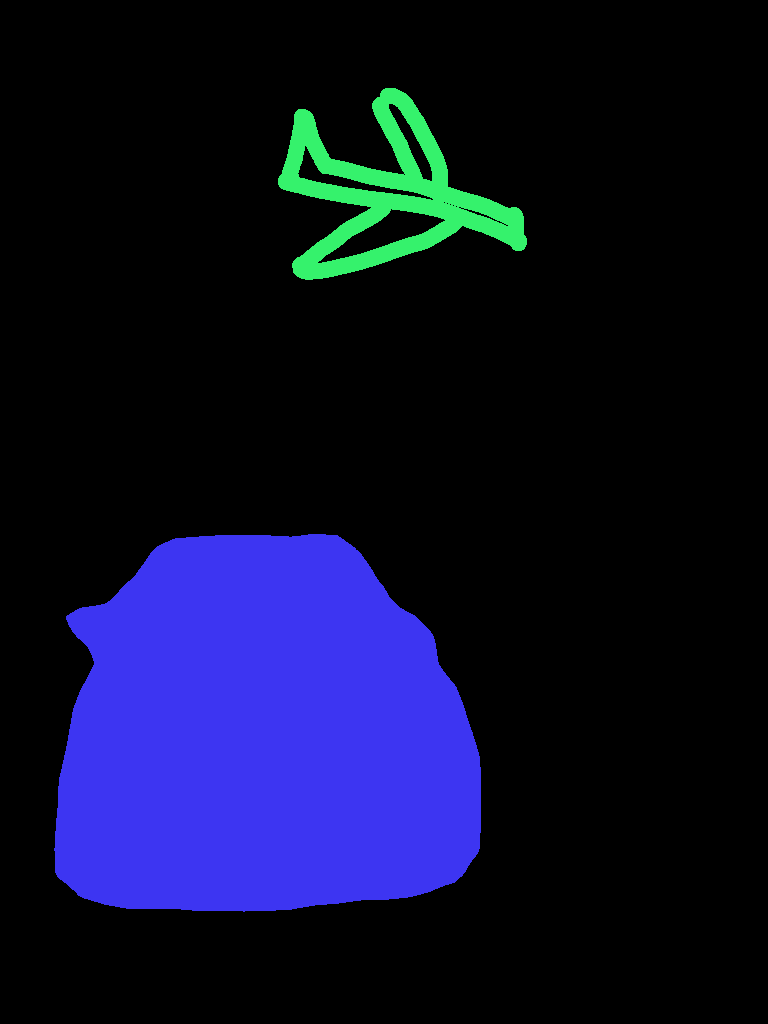
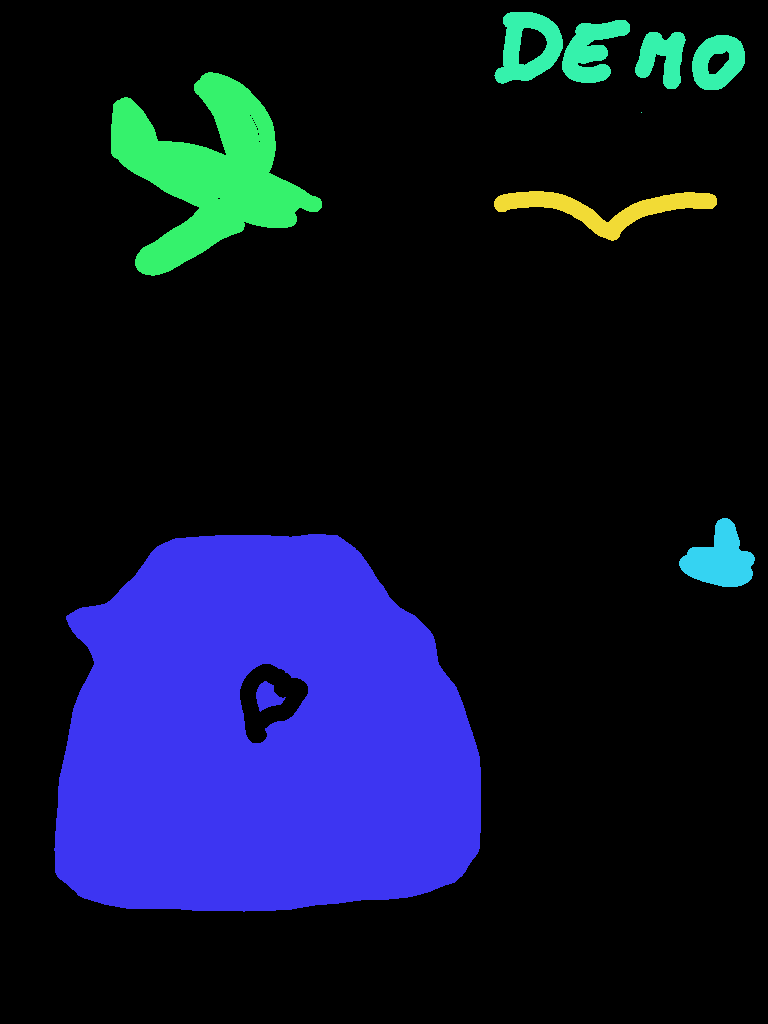
demo images

diff --git a/README.md b/README.md
@@ -37,6 +37,17 @@ width and height. The editor works on a copy no larger than 1600 pixels on its
 longest side, so corrections to a larger source are resized with nearest-neighbor
 sampling.
 
+## Current demo workflow
+
+This is the primary simple output.
+![Initial output](./assets/demo_1.png)
+
+The self-hosted websites allows the editing of the mask with an iPad (given they are in the same wifi).
+![Manually "corrected" image](assets/demo_2.png)
+
+The correct mask gets saved again to the host computer.
+![Corrected mask](demo/toyota_corrected_mask.png)
+
 ## Connect another segmentation project
 
 Replace `segment(image)` in `segmenter.py`. It receives a Pillow RGB image at
